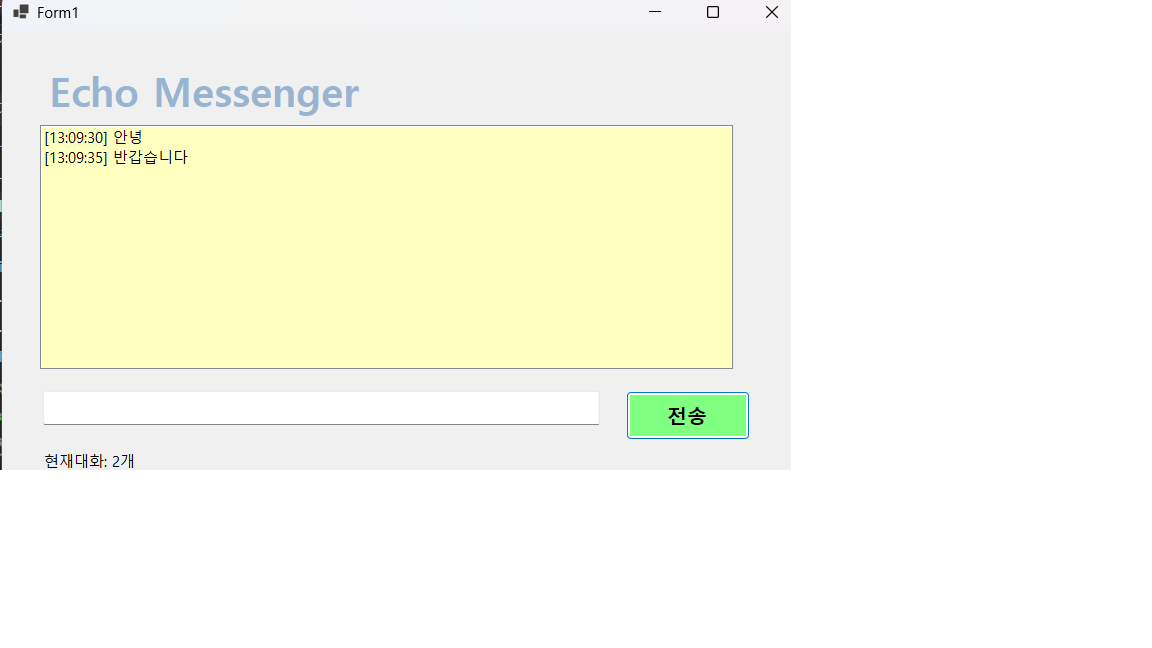
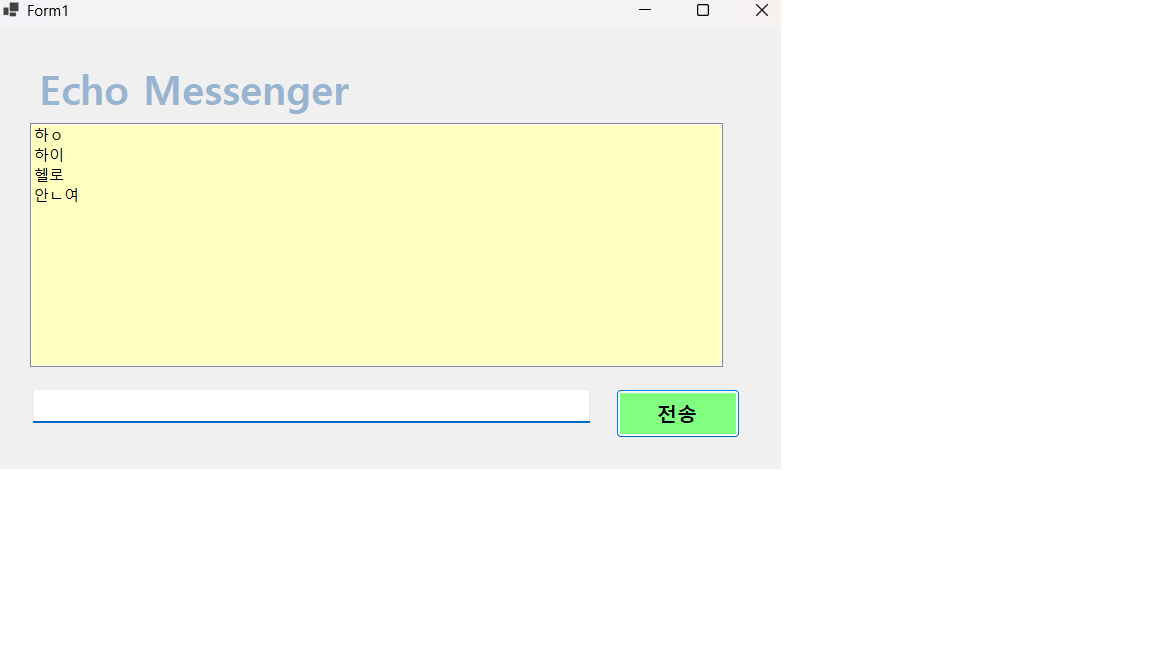
과제3 코딩과테스트완료

diff --git a/Form1.cs b/Form1.cs
@@ -5,17 +5,10 @@ namespace EchoMessenger
         public Form1()
         {
             InitializeComponent();
-            // Ensure initial count is correct
-            UpdateMessageCount();
-            // Clear placeholder on first click/focus
-            txtm.GotFocus += Txtm_GotFocus;
-        }
-
-        private void Txtm_GotFocus(object? sender, EventArgs e)
-        {
-            if (txtm.Text == "(여기에 입력하세요)")
-                txtm.Clear();
-            txtm.GotFocus -= Txtm_GotFocus;
+            // Make the Enter key trigger the send button and set initial focus to the input
+            AcceptButton = bnt;
+            txtm.Focus();
+            txtm.KeyDown += Txtm_KeyDown;
         }
 
         private void LSTB_SelectedIndexChanged(object sender, EventArgs e)
@@ -25,27 +18,27 @@ namespace EchoMessenger
 
         private void bnt_Click(object sender, EventArgs e)
         {
-            // Trim whitespace
+            // Prevent sending empty or whitespace-only messages
             string typed_msg = txtm.Text.Trim();
             if (string.IsNullOrEmpty(typed_msg))
             {
-                // Do not add empty messages
+                txtm.Focus();
                 return;
             }
 
-            // Prepend timestamp in format [HH:mm:ss]
-            string stamped = $"[{DateTime.Now:HH:mm:ss}] {typed_msg}";
-            LSTB.Items.Add(stamped);
+            LSTB.Items.Add(typed_msg);
             txtm.Clear();
-
-            UpdateMessageCount();
+            txtm.Focus();
         }
 
-        private void UpdateMessageCount()
+        private void Txtm_KeyDown(object? sender, KeyEventArgs e)
         {
-            int count = LSTB.Items.Count;
-            // labelCount is added in designer
-            labelCount.Text = $"현재대화: {count}개";
+            if (e.KeyCode == Keys.Enter)
+            {
+                // Suppress the ding and trigger the send action
+                e.SuppressKeyPress = true;
+                bnt.PerformClick();
+            }
         }
 
         private void textBox1_TextChanged(object sender, EventArgs e)

diff --git a/Form1.Designer.cs b/Form1.Designer.cs
@@ -77,17 +77,6 @@
             txtm.Text = "(여기에 입력하세요)";
             txtm.TextChanged += textBox1_TextChanged;
             // 
-            // labelCount
-            // 
-            labelCount = new Label();
-            labelCount.AutoSize = true;
-            labelCount.Font = new Font("맑은 고딕", 9F, FontStyle.Regular, GraphicsUnit.Point, 129);
-            labelCount.Location = new Point(38, 420);
-            labelCount.Name = "labelCount";
-            labelCount.Size = new Size(120, 20);
-            labelCount.TabIndex = 4;
-            labelCount.Text = "현재대화: 0개";
-            // 
             // Form1
             // 
             AutoScaleDimensions = new SizeF(9F, 20F);
@@ -95,7 +84,6 @@
             ClientSize = new Size(800, 450);
             Controls.Add(txtm);
             Controls.Add(LSTB);
-            Controls.Add(labelCount);
             Controls.Add(label1);
             Controls.Add(bnt);
             Name = "Form1";
@@ -110,6 +98,5 @@
         private Label label1;
         private ListBox LSTB;
         private TextBox txtm;
-        private Label labelCount;
     }
 }
